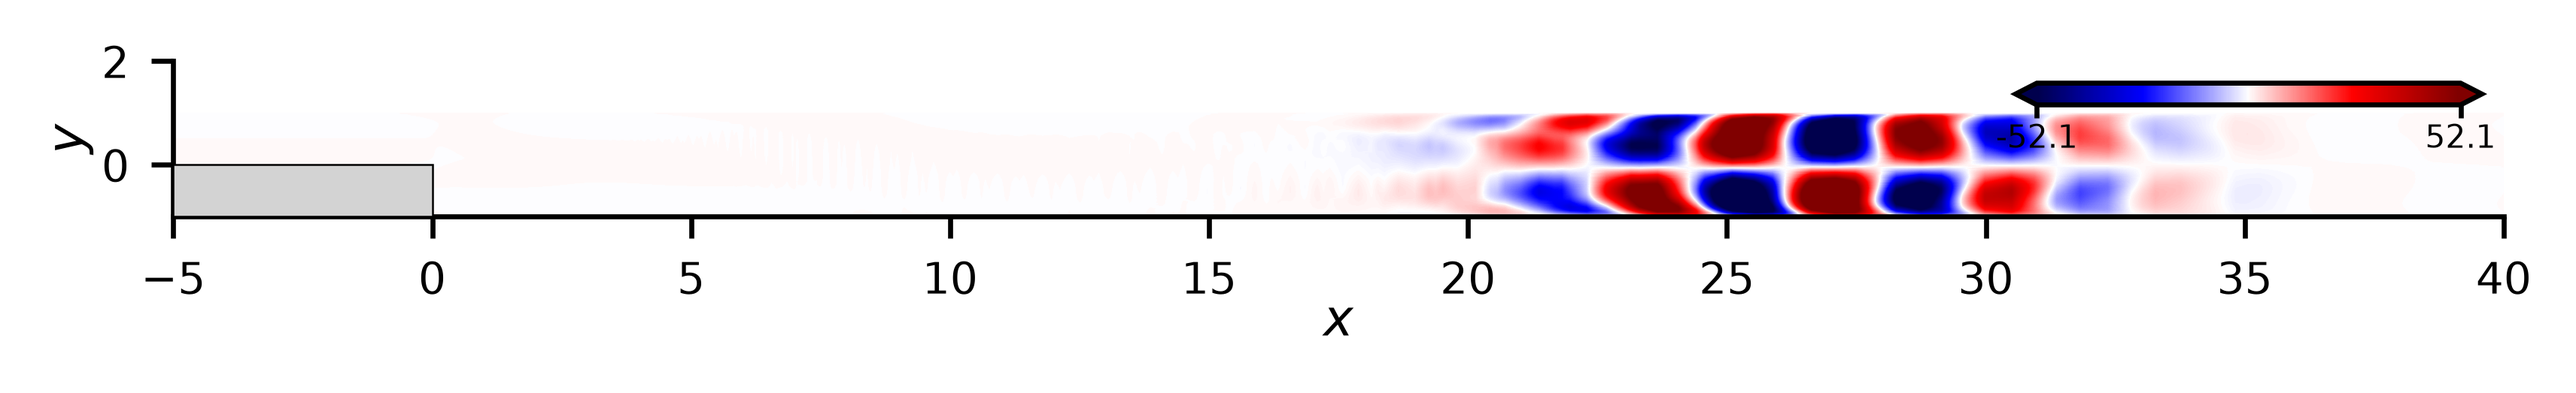
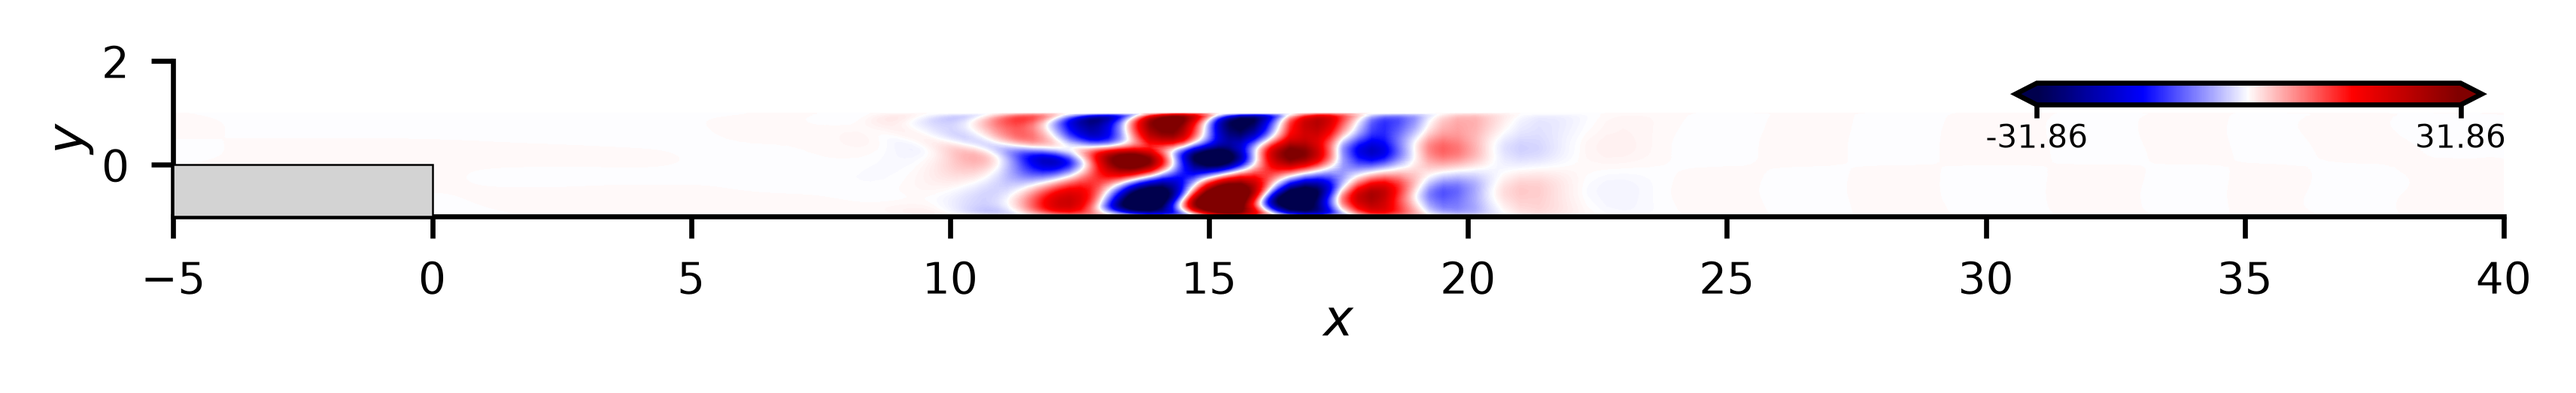
example(back_fstep_re500): validate transient growth at the shorter horizon tau=29.913
G = 13127 against 12273 read off the reference curve (+7 %), 3 h 34 min on
8 ranks; E(response)/E(perturbation) = 13126. The peak at tau=57.905 stays
in the sweep table. bfs.usr leaves the sponge off, so the README no longer
claims one.

Changed region(s): [[0.3438, 0.2753, 0.875, 0.5507], [0.9375, 0.3059, 0.9688, 0.3977]]

diff --git a/validation/index.html b/validation/index.html
@@ -918,10 +918,10 @@ a:focus-visible {
 </head><body>
 <header class="page-head">
 <h1>nekStab validation gallery</h1>
-<div class="meta">nekStab <code>v2.0.0-rc4-136-gc33c6ca-dirty (dev)</code> &middot; 32/45 validated catalog cases &middot; generated 2026-10-07 10:24</div>
+<div class="meta">nekStab <code>v2.0.0-rc4-139-g0da6e77-dirty (dev)</code> &middot; 32/45 validated catalog cases &middot; generated 2026-10-07 13:51</div>
 </header>
 <div class="legend"><span class="ok">match (case Re/Ra)</span><span class="stale">stale (Re/Ra mismatch)</span><span class="pending">pending re-run</span></div>
-<div class="status-summary" style="display:flex;gap:1em;flex-wrap:wrap;margin:0.5em 0 1em;"><span class="c-ok">32 validated</span><span class="c-pending">6 deferred</span><span class="c-stale">3 blocked / needs seed</span><span class="c-pending">4 partial</span><span style="color:var(--fg-mute);font-size:0.85em;">&middot; 45 total &middot; 2026-10-07 10:24</span></div>
+<div class="status-summary" style="display:flex;gap:1em;flex-wrap:wrap;margin:0.5em 0 1em;"><span class="c-ok">32 validated</span><span class="c-pending">6 deferred</span><span class="c-stale">3 blocked / needs seed</span><span class="c-pending">4 partial</span><span style="color:var(--fg-mute);font-size:0.85em;">&middot; 45 total &middot; 2026-10-07 13:51</span></div>
 <div class="filter-bar" id="filter-bar" aria-label="Filter cards"><div class="filter-group"><span class="filter-label">Status:</span><button class="filter-chip" aria-label="Filter by validated status" data-filter-group="status" data-filter-value="validated">validated</button><button class="filter-chip" aria-label="Filter by deferred status" data-filter-group="status" data-filter-value="deferred">deferred</button><button class="filter-chip" aria-label="Filter by blocked status" data-filter-group="status" data-filter-value="blocked">blocked</button></div><div class="filter-group"><span class="filter-label">Lane:</span><button class="filter-chip" aria-label="Filter by baseflow lane" data-filter-group="lane" data-filter-value="baseflow">baseflow</button><button class="filter-chip" aria-label="Filter by stability lane" data-filter-group="lane" data-filter-value="stability">stability</button><button class="filter-chip" aria-label="Filter by postproc lane" data-filter-group="lane" data-filter-value="postproc">postproc</button><button class="filter-chip" aria-label="Filter by dns lane" data-filter-group="lane" data-filter-value="dns">dns</button><button class="filter-chip" aria-label="Filter by modal lane" data-filter-group="lane" data-filter-value="modal">modal</button><button class="filter-chip" aria-label="Filter by otd lane" data-filter-group="lane" data-filter-value="otd">otd</button></div><button class="filter-chip clear-btn" aria-label="Clear all filters" id="filter-clear">Clear filters</button></div>
 <div class="queue-panel" id="queue-panel"><div class="qhead"><span class="qtitle"><span class="status-dot" id="queue-status-dot" data-state="connecting" aria-hidden="true"></span>Running jobs</span><span class="tick" id="queue-tick">connecting&hellip;</span></div><div id="queue-body"><div class="empty">waiting for first poll&hellip;</div></div></div>
 <nav class="section-nav" id="family-nav" aria-label="Flow family navigation"><a class="nav-chip" href="#family-cylinder_re100" aria-label="Jump to Static Cylinder family">Static Cylinder<span class="count">16/19</span></a><a class="nav-chip" href="#family-cylinder_re180" aria-label="Jump to Cylinder (Re=180, just below Barkley-Henderson Mode A onset) family">Cylinder (Re=180, just below Barkley-Henderson Mode A onset)<span class="count">4/5</span></a><a class="nav-chip" href="#family-flip_flop" aria-label="Jump to Flip-Flop Jet family">Flip-Flop Jet<span class="count">2/2</span></a><a class="nav-chip" href="#family-tpjet" aria-label="Jump to Two-Phase Jet family">Two-Phase Jet<span class="count">2/4</span></a><a class="nav-chip" href="#family-thermosyphon" aria-label="Jump to Thermosyphon family">Thermosyphon<span class="count">2/2</span></a><a class="nav-chip" href="#family-back_fstep" aria-label="Jump to Backward-Facing Step family">Backward-Facing Step<span class="count">2/2</span></a><a class="nav-chip" href="#family-lid_driven_cavity" aria-label="Jump to Lid-Driven Cavity family">Lid-Driven Cavity<span class="count">1/1</span></a><a class="nav-chip" href="#family-naca0012" aria-label="Jump to NACA 0012 family">NACA 0012<span class="count">1/1</span></a><a class="nav-chip" href="#family-poiseuille" aria-label="Jump to Poiseuille Channel family">Poiseuille Channel<span class="count">1/1</span></a><a class="nav-chip" href="#family-moving_cylinder" aria-label="Jump to Moving Cylinder family">Moving Cylinder<span class="count">0/4</span></a><a class="nav-chip" href="#family-cubic_cavity" aria-label="Jump to Cubic Cavity family">Cubic Cavity<span class="count">1/2</span></a><a class="nav-chip" href="#family-slot_FST" aria-label="Jump to Slot FST family">Slot FST<span class="count">0/1</span></a><a class="nav-chip" href="#family-cylinder_re1m" aria-label="Jump to Cylinder (High-Re RANS) family">Cylinder (High-Re RANS)<span class="count">0/1</span></a></nav>

diff --git a/validation/validate.py b/validation/validate.py
@@ -299,7 +299,7 @@ CASES = {
         ],
     },
     "backstep_tg": {
-        "description": "Backward-facing step - Transient growth at tau=57.905 (Re=500)",
+        "description": "Backward-facing step - Transient growth at tau=29.913 (Re=500)",
         "dir": "back_fstep_re500/330_transient_growth",
         "casename": "bfs",
         "tier": "short",
@@ -311,9 +311,9 @@ CASES = {
             {
                 "name": "transient_growth",
                 "metric": "sigma_real",
-                "expected": 63152.0,
-                "tolerance": 2500.0,
-                "description": "Optimal energy gain G at tau=57.905 (Blackburn et al. 2008 fig. 5: 63152)",
+                "expected": 12273.0,
+                "tolerance": 1500.0,
+                "description": "Optimal energy gain G at tau=29.913 (Blackburn et al. 2008 fig. 5: 12273)",
             },
         ],
     },

diff --git a/example/back_fstep_re500/330_transient_growth/README.md b/example/back_fstep_re500/330_transient_growth/README.md
@@ -16,16 +16,17 @@ adjoint integration over tau.
 
 - Base flow: `BF_bfs0.f00001`, the Newton solution of
   `../210_baseflow_newton/` (tracked here, so this stage runs on its own).
-- `endTime = 57.905` is the horizon tau. This value is the peak of the
-  reference envelope.
+- `endTime = 29.913` is the horizon tau, the shortest reference abscissa
+  that agrees within 10 %. The peak of the envelope is at tau = 57.905
+  (G = 61690, see the table); that run takes about 20 h.
 - `userParam07 = 64`: Krylov basis size. `dt = 0.005` is fixed, so the
   forward and adjoint integrations cover the same tau.
-- Sponge: 5 units at the inlet, 5 units at the outlet (`userParam08/09`).
-  A 10-unit outlet sponge damps the packet before tau = 58.
-- 8 MPI ranks (`lpmin = 8`). Wall time at tau = 57.905: 8 h 40 min in one
-  run, about 20 h in another and 23 h in a third, all on 8 ranks of a 6-core
-  node (the speed differs between runs). The third run reached a 23 h limit
-  a few minutes after it wrote the results. `run.local.slurm` asks for 24 h.
+- No sponge. `bfs.usr` leaves the sponge lines commented out, because a
+  sponge damps the perturbation toward zero and removes the growth.
+  `userParam08` to `userParam10` in `bfs.par` are not read.
+- 8 MPI ranks (`lpmin = 8`). Wall time at tau = 29.913: 3 h 34 min on 8
+  ranks of c9. The run at tau = 57.905 took 8 h 40 min to 23 h on 6-core
+  nodes. `run.local.slurm` asks for 24 h.
 
 Run: `sbatch run.local.slurm` (or `mpiexec -np 8 ./nek5000`).
 G is the first value in `Spectre_Hp_conv.dat`. Plot: `python plot.py`.
@@ -52,9 +53,10 @@ Figures:
 - `plot_baseflow.png`: streamwise velocity of the base flow.
 - `plot_optimal_perturbation.png`, `plot_optimal_response.png`: streamwise
   velocity of the optimal initial perturbation (`pRebfs0.f00001`) and of
-  its response at t = tau (`orebfs0.f00001`), drawn from the tau = 57.905 run.
+  its response at t = tau (`orebfs0.f00001`), drawn from the tau = 29.913 run.
   The energy of the response divided by the energy of the perturbation is
-  61688 (mass-weighted, GLL quadrature); G is 61690.
+  13126 (mass-weighted, GLL quadrature); G is 13127. The packet sits at
+  x = 10 to 22.
 
 ## Reference
 
